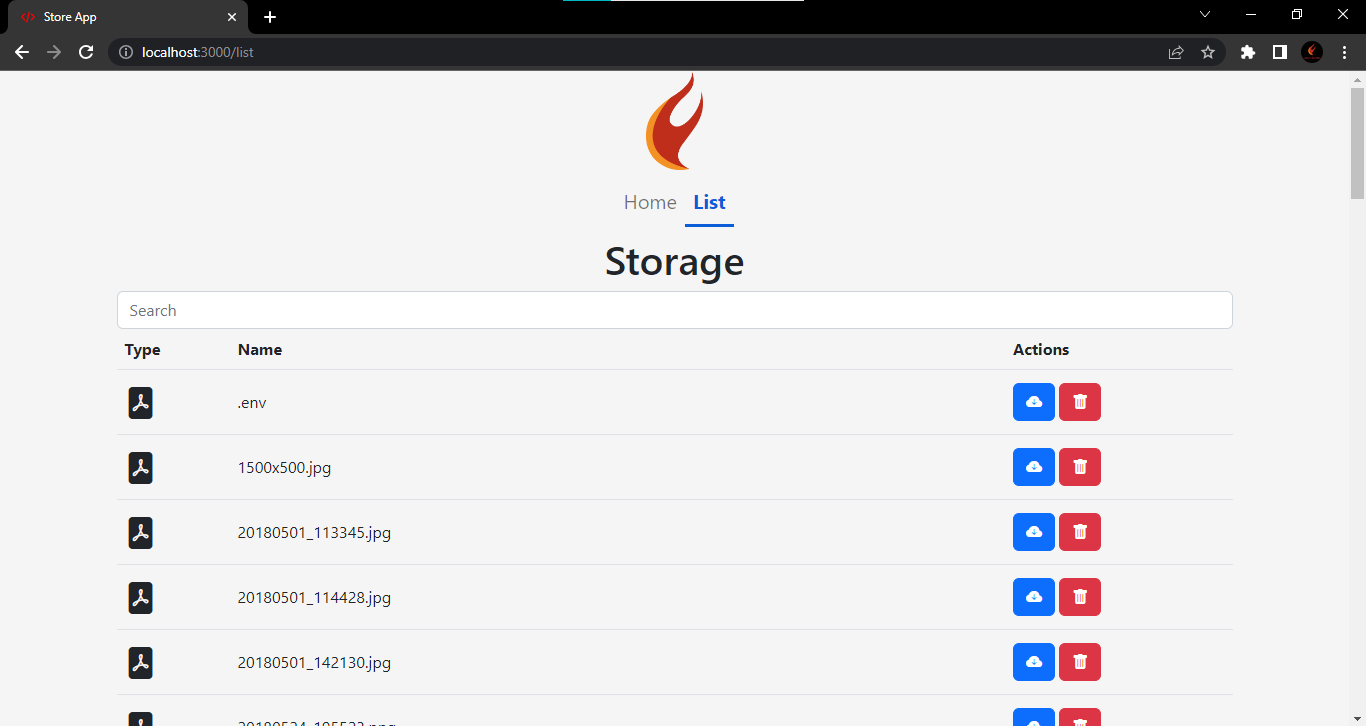
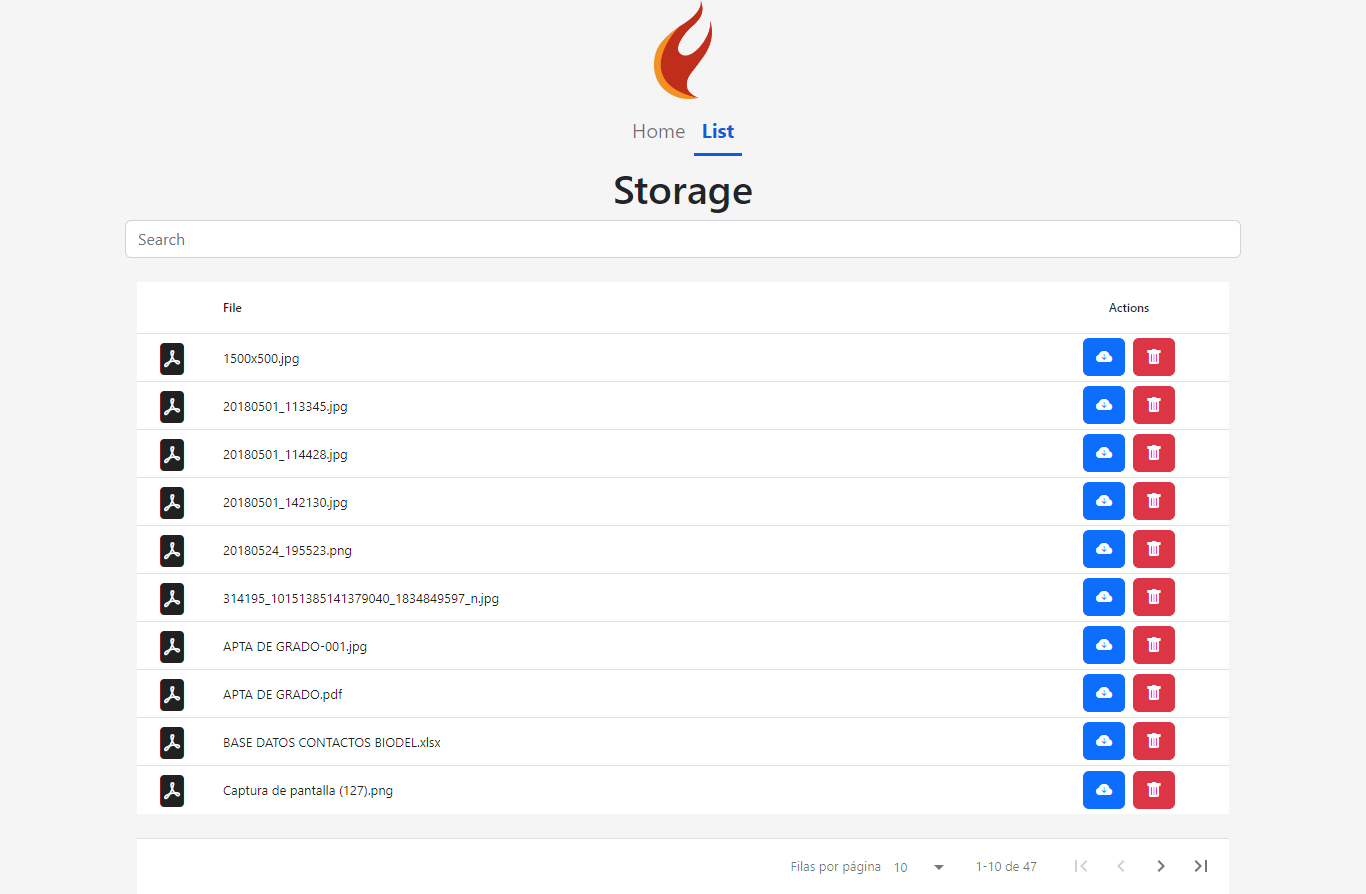
React Table Component

diff --git a/src/components/Table.tsx b/src/components/Table.tsx
@@ -1,22 +1,25 @@
-import Swal from 'sweetalert2';
+import DataTable, { TableColumn } from 'react-data-table-component';
 import fileDownload from 'js-file-download';
+import Swal from 'sweetalert2';
 import { IFile } from '../interfaces';
 import { deleteFile, downloadFile } from '../services';
+import Loading from './Loading';
 
 interface Props {
     files: Array<IFile>;
     refreshList: () => void;
+    loading: boolean;
 }
 
-const Table: React.FC<Props> = ({ files, refreshList }) => {
+const Table: React.FC<Props> = ({ files, refreshList, loading }) => {
 
-    const DownloadFile = ({ name }: IFile) => {
-        downloadFile(name)
-            .then((res) => fileDownload(res.data, name))
+    const DownloadFile = (filename: string) => {
+        downloadFile(filename)
+            .then((res) => fileDownload(res.data, filename))
             .catch((err) => console.log(err))
     }
 
-    const DeleteFile = ({ name }: IFile) => {
+    const DeleteFile = (filename: string) => {
         Swal.fire({
             title: '¿Estás seguro?',
             text: `No podrás revertir esto!`,
@@ -28,7 +31,7 @@ const Table: React.FC<Props> = ({ files, refreshList }) => {
             confirmButtonText: 'Si, eliminarlo!'
         }).then((result) => {
             if (result.isConfirmed) {
-                deleteFile(name)
+                deleteFile(filename)
                     .catch(error => console.log(error))
                     .finally(() => refreshList())
                 Swal.fire('Eliminado!', 'Su archivo ha sido eliminado.', 'success');
@@ -36,35 +39,56 @@ const Table: React.FC<Props> = ({ files, refreshList }) => {
         })
     }
 
+    const columns: TableColumn<IFile>[] = [
+        {
+            width: '70px',
+            center: true,
+            cell: () => (
+                <div className='d-flex justify-content-center'>
+                    <i className='bi bi-file-pdf-fill fs-2'></i>
+                </div>
+            )
+        },
+        {
+            name: 'File',
+            selector: (row) => row.name,
+            sortable: true
+        },
+        {
+            name: 'Actions',
+            width: '200px',
+            center: true,
+            cell: ({ name }) => (
+                <div className='d-flex justify-content-center gap-2'>
+                    <button className='btn btn-primary' onClick={() => DownloadFile(name)}>
+                        <i className='bi bi-cloud-arrow-down-fill'></i>
+                    </button>
+                    <button className='btn btn-danger' onClick={() => DeleteFile(name)}>
+                        <i className='bi bi-trash-fill'></i>
+                    </button>
+                </div>
+            )
+        }
+    ]
+
+    const paginationComponentOptions = {
+        rowsPerPageText: 'Filas por página',
+        rangeSeparatorText: 'de',
+        selectAllRowsItem: true,
+        selectAllRowsItemText: 'Todos',
+    };
+
     return (
-        <table className='table table-hover align-middle'>
-            <thead>
-                <tr>
-                    <th>Type</th>
-                    <th>Name</th>
-                    <th>Actions</th>
-                </tr>
-            </thead>
-            <tbody>
-                {
-                    files.map((file, index) => (
-                        <tr key={index}>
-                            <td><i className='bi bi-file-pdf-fill fs-2'></i></td>
-                            <td>{file.name}</td>
-                            <td>
-                                <button className='btn btn-primary' onClick={() => DownloadFile(file)}>
-                                    <i className='bi bi-cloud-arrow-down-fill'></i>
-                                </button>
-                                {' '}
-                                <button className='btn btn-danger' onClick={() => DeleteFile(file)}>
-                                    <i className='bi bi-trash-fill'></i>
-                                </button>
-                            </td>
-                        </tr>
-                    ))
-                }
-            </tbody>
-        </table>
+        <DataTable
+            className='my-4'
+            columns={columns}
+            data={files}
+            highlightOnHover
+            progressPending={loading}
+            progressComponent={<Loading />}
+            pagination
+            paginationComponentOptions={paginationComponentOptions}
+        />
     )
 }
 

diff --git a/src/pages/StoragePage.tsx b/src/pages/StoragePage.tsx
@@ -3,7 +3,7 @@ import { useServiceManageStorage } from '../hooks'
 
 const StoragePage: React.FC = () => {
 
-    const { retrieveFiles, setRecords, files, records } = useServiceManageStorage();
+    const { retrieveFiles, setRecords, files, records, loading } = useServiceManageStorage();
 
     return (
         <>
@@ -11,7 +11,7 @@ const StoragePage: React.FC = () => {
             <div className='container'>
                 <div className='row'>
                     <Search files={files} setRecords={setRecords} />
-                    <Table files={records} refreshList={retrieveFiles} />
+                    <Table files={records} refreshList={retrieveFiles} loading={loading} />
                 </div>
             </div>
         </>

diff --git a/README.md b/README.md
@@ -7,9 +7,10 @@ Instalaciones:
 - Axios
 - React Dropzone
 - JS File Download
+- React Table Component
 
 ```
-npm install react-router-dom bootstrap sweetalert2 axios react-dropzone js-file-download
+npm install react-router-dom bootstrap sweetalert2 axios react-dropzone js-file-download react-data-table-component
 ```
 
 # Screenshots
